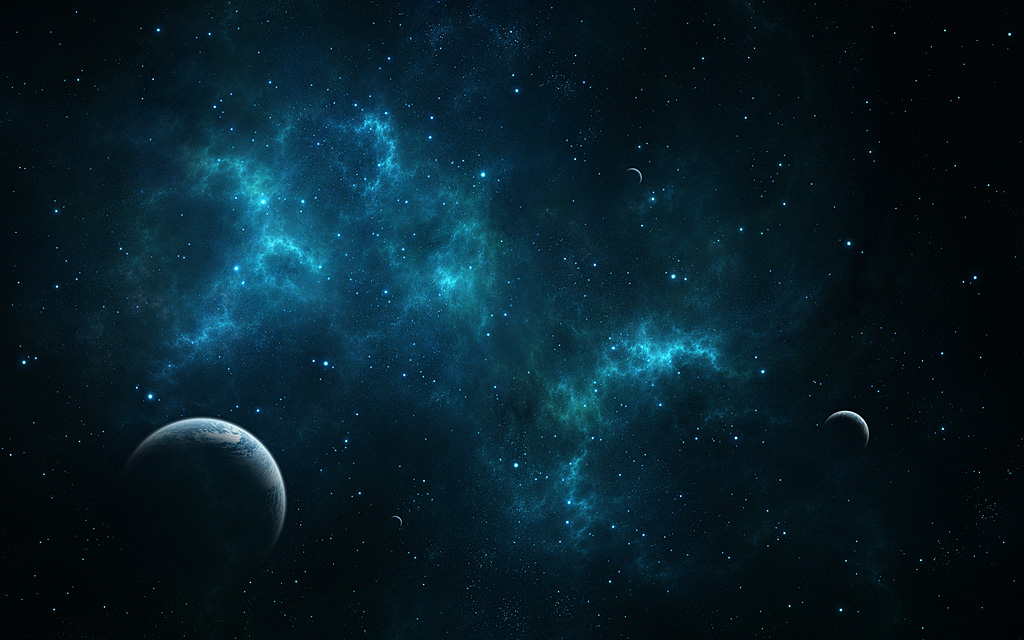
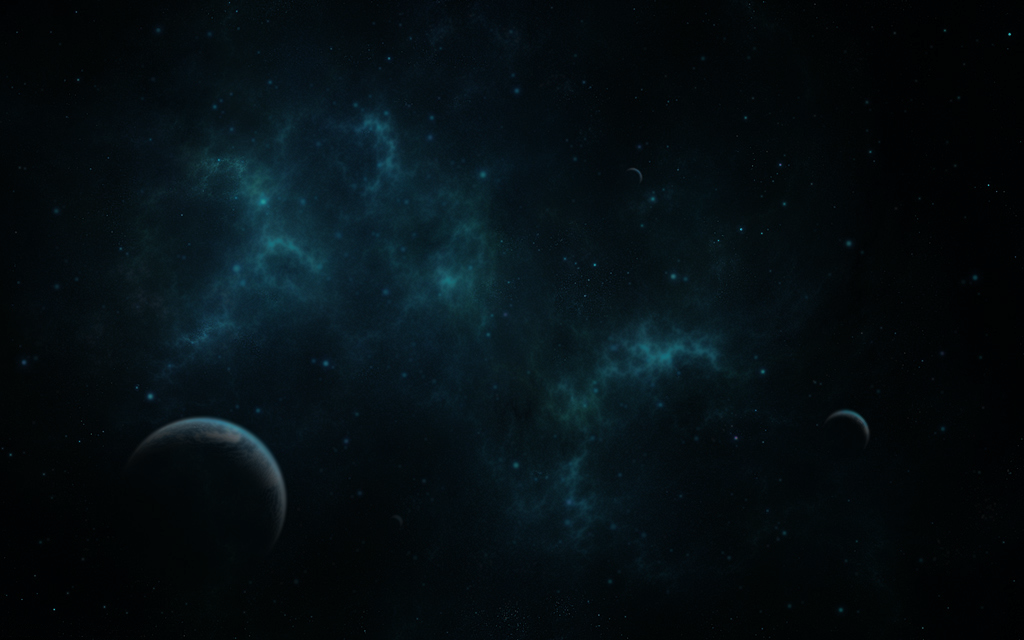
Added bonuses, Removed unused maps and images

diff --git a/Python-Project/source/bonus.py b/Python-Project/source/bonus.py
@@ -14,8 +14,8 @@ class Bonus(pygame.sprite.Sprite):
     p200_img = pygame.image.load('images/gifts/p200.png')
     p300_img = pygame.image.load('images/gifts/p300.png')
     shield_img = pygame.image.load('images/gifts/shield.png')
-    heal_img = pygame.image.load('images/gifts/heal_1.png')
-    gun_img = pygame.image.load('images/gifts/gun_5.png')
+    heal_img = pygame.image.load('images/gifts/heal.png')
+    gun_img = pygame.image.load('images/gifts/gun.png')
 
     images = {'p100':p100_img, 'p200':p200_img, 'p300':p300_img, 
             'shield':shield_img, 'heal':heal_img, 'gun':gun_img}

diff --git a/Python-Project/source/game.py b/Python-Project/source/game.py
@@ -23,7 +23,7 @@ class Game:
         self.screen_size = screen.get_size()
         self.game_level = 1
 
-        self.background = pygame.image.load('images/background2.png')
+        self.background = pygame.image.load('images/background.png')
         self.status_img = pygame.image.load('images/stats.png')
 
         stats_img_pos = (0, self.screen_size[1] - self.stat_bar_size)
